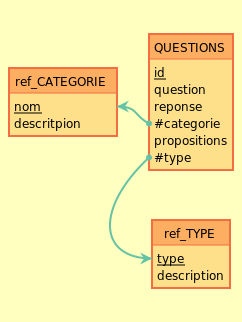
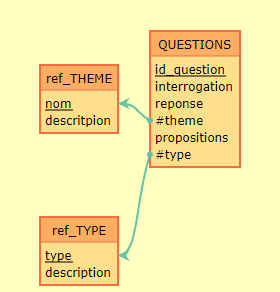
maj de la bd de paul

diff --git a/html/co.php b/html/co.php
@@ -1,26 +1,27 @@
 <!DOCTYPE html>
 <html>
+
 <head>
-	<meta charset="utf-8">
-<title>
-	Ajout de la personne <?php echo $_GET['nom']; ?>
-</title>
+  <meta charset="utf-8">
+  <title>
+    Ajout de la personne <?php echo $_GET['nom']; ?>
+  </title>
+
 <body>
-<?php
+  <?php
 
+  $addIp = $_SERVER['REMOTE_ADDR'];
+  $dsn = "mysql:dbname=quizz;host=" + ;
+  try {
+    $connexion = new PDO($dsn, "paul", "paul");
+    $connexion->setAttribute(PDO::ATTR_ERRMODE, PDO::ERRMODE_WARNING);
+  } catch (PDOException $e) {
+    printf("Échec de la connexion : %s\n", $e->getMessage());
+    exit();
+  }
 
-$dsn="mysql:dbname=PAULDB;host=localhost";
-    try{
-      $connexion=new PDO($dsn,"paul","paul");
-      $connexion->setAttribute(PDO::ATTR_ERRMODE, PDO::ERRMODE_WARNING);
-    }
-    catch(PDOException $e){
-      printf("Échec de la connexion : %s\n", $e->getMessage());
-      exit();
-    }
-
-// ?>
+  // 
+  ?>
 </body>
+
 </html>
-
-

diff --git a/docs/database.md b/docs/database.md
@@ -14,8 +14,32 @@ To launch the database, you need to run the following commands:
 bash startBd.sh
 ```
 
+For curious: 
+
+To see the ip adresse, run the following command:   
+```bash
+ip addr | grep -oP '(?<=inet )[\d.]+'`
+```
+Take the second ip address.  
+  
+    
+    
+To access to the database, you need to run the following commands:
+```bash
+mysql -h <ip Adresse> -P 3306 -u root -p quizz
+```
+The password is `rootpwd`.  
+
 ## Explication
 The database is create on docker mysql. During the creation of the container, init script is launch. This script create the database, the tables and users with there privileges. The script is in the folder `./database/init.sql`.
+
+### propositions.QUESTIONS
+Proposition of questions as separeted by `|`.   
+    ex: `1|2|3|4`   
+
+If the type of question didn't need propositions, the field is `NULL`.   
+    ex: `NULL`
+
 
 ## MCD
 ![MCD](./mcd.png)
@@ -25,8 +49,8 @@ You can copy past this code in [mocodo](https://www.mocodo.net) to see the MCD:
 :
 :
 
-ref_CATEGORIE: nom, descritpion
-QUESTIONS: id, question, reponse, #categorie->ref_CATEGORIE->nom, propositions, #type->ref_TYPE->type
+ref_THEME: nom, descritpion
+QUESTIONS: id_question, interrogation, reponse, #theme->ref_THEME->nom, propositions, #type->ref_TYPE->type
 
 :
 :
